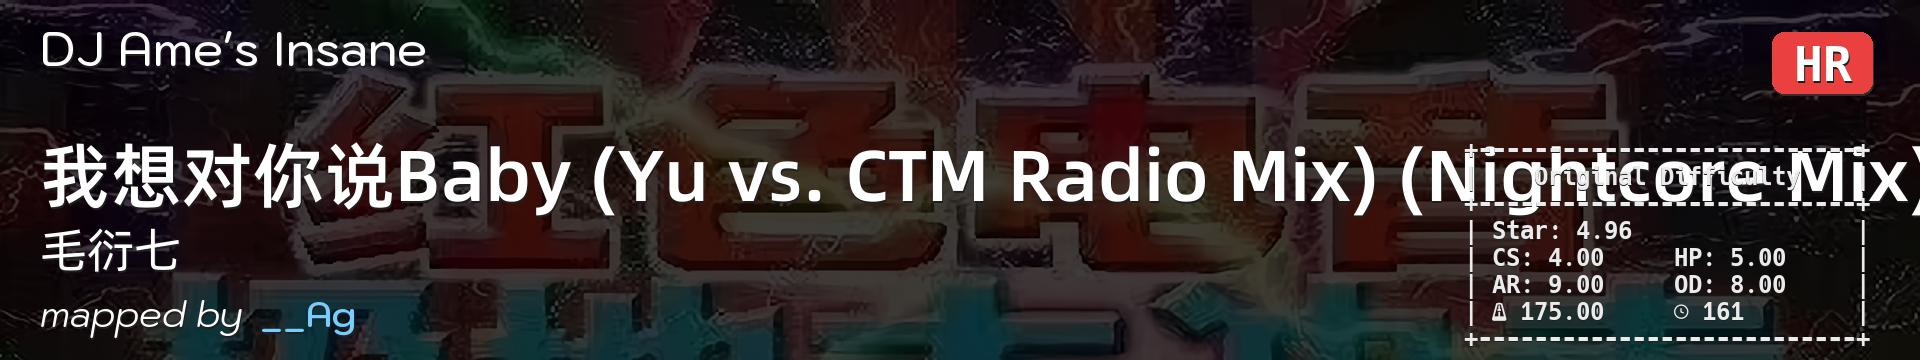
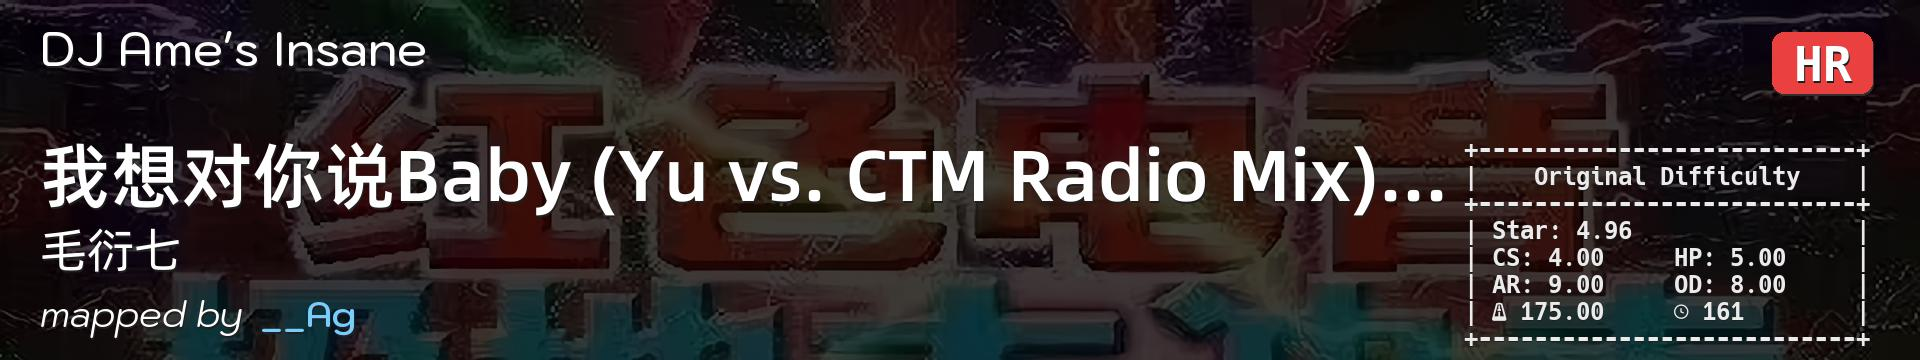
cut if title too long

Changed region(s): [[0.7188, 0.3972, 1.0, 0.6111]]

diff --git a/osu_playlist_generator.py b/osu_playlist_generator.py
@@ -1,7 +1,12 @@
 from clayutil.futil import OsuPlaylist
 
 oauth = "../osu.properties"
-playlist = "./playlists/HSC3S1R1.properties"
+normal_playlists = [
+    "./playlists/2000pp过关.properties"
+]
+match_playlists = [
+    "./playlists/HSC3S1R1.properties"
+]
 o0 = OsuPlaylist(oauth)
 font_difficulty = "../Kodchasan-Medium.ttf"
 font_title = "../AlibabaPuHuiTi-3-75-SemiBold.ttf"
@@ -9,4 +14,11 @@ font_artist = "../AlibabaPuHuiTi-3-55-Regular.ttf"
 font_mapped_by = "../Kodchasan-Italic.ttf"
 font_mapper = "../Kodchasan-SemiBold.ttf"
 font_mono = "../HackNerdFontMono-Bold.ttf"
-o0.generate(playlist, font_difficulty, font_title, font_artist, font_mapped_by, font_mapper, font_mono)
+for playlist in normal_playlists:
+    o0.draw_target = True
+    o0.draw_difficulty_table = False
+    o0.generate(playlist, font_difficulty, font_title, font_artist, font_mapped_by, font_mapper, font_mono)
+for playlist in match_playlists:
+    o0.draw_target = False
+    o0.draw_difficulty_table = True
+    o0.generate(playlist, font_difficulty, font_title, font_artist, font_mapped_by, font_mapper, font_mono)
